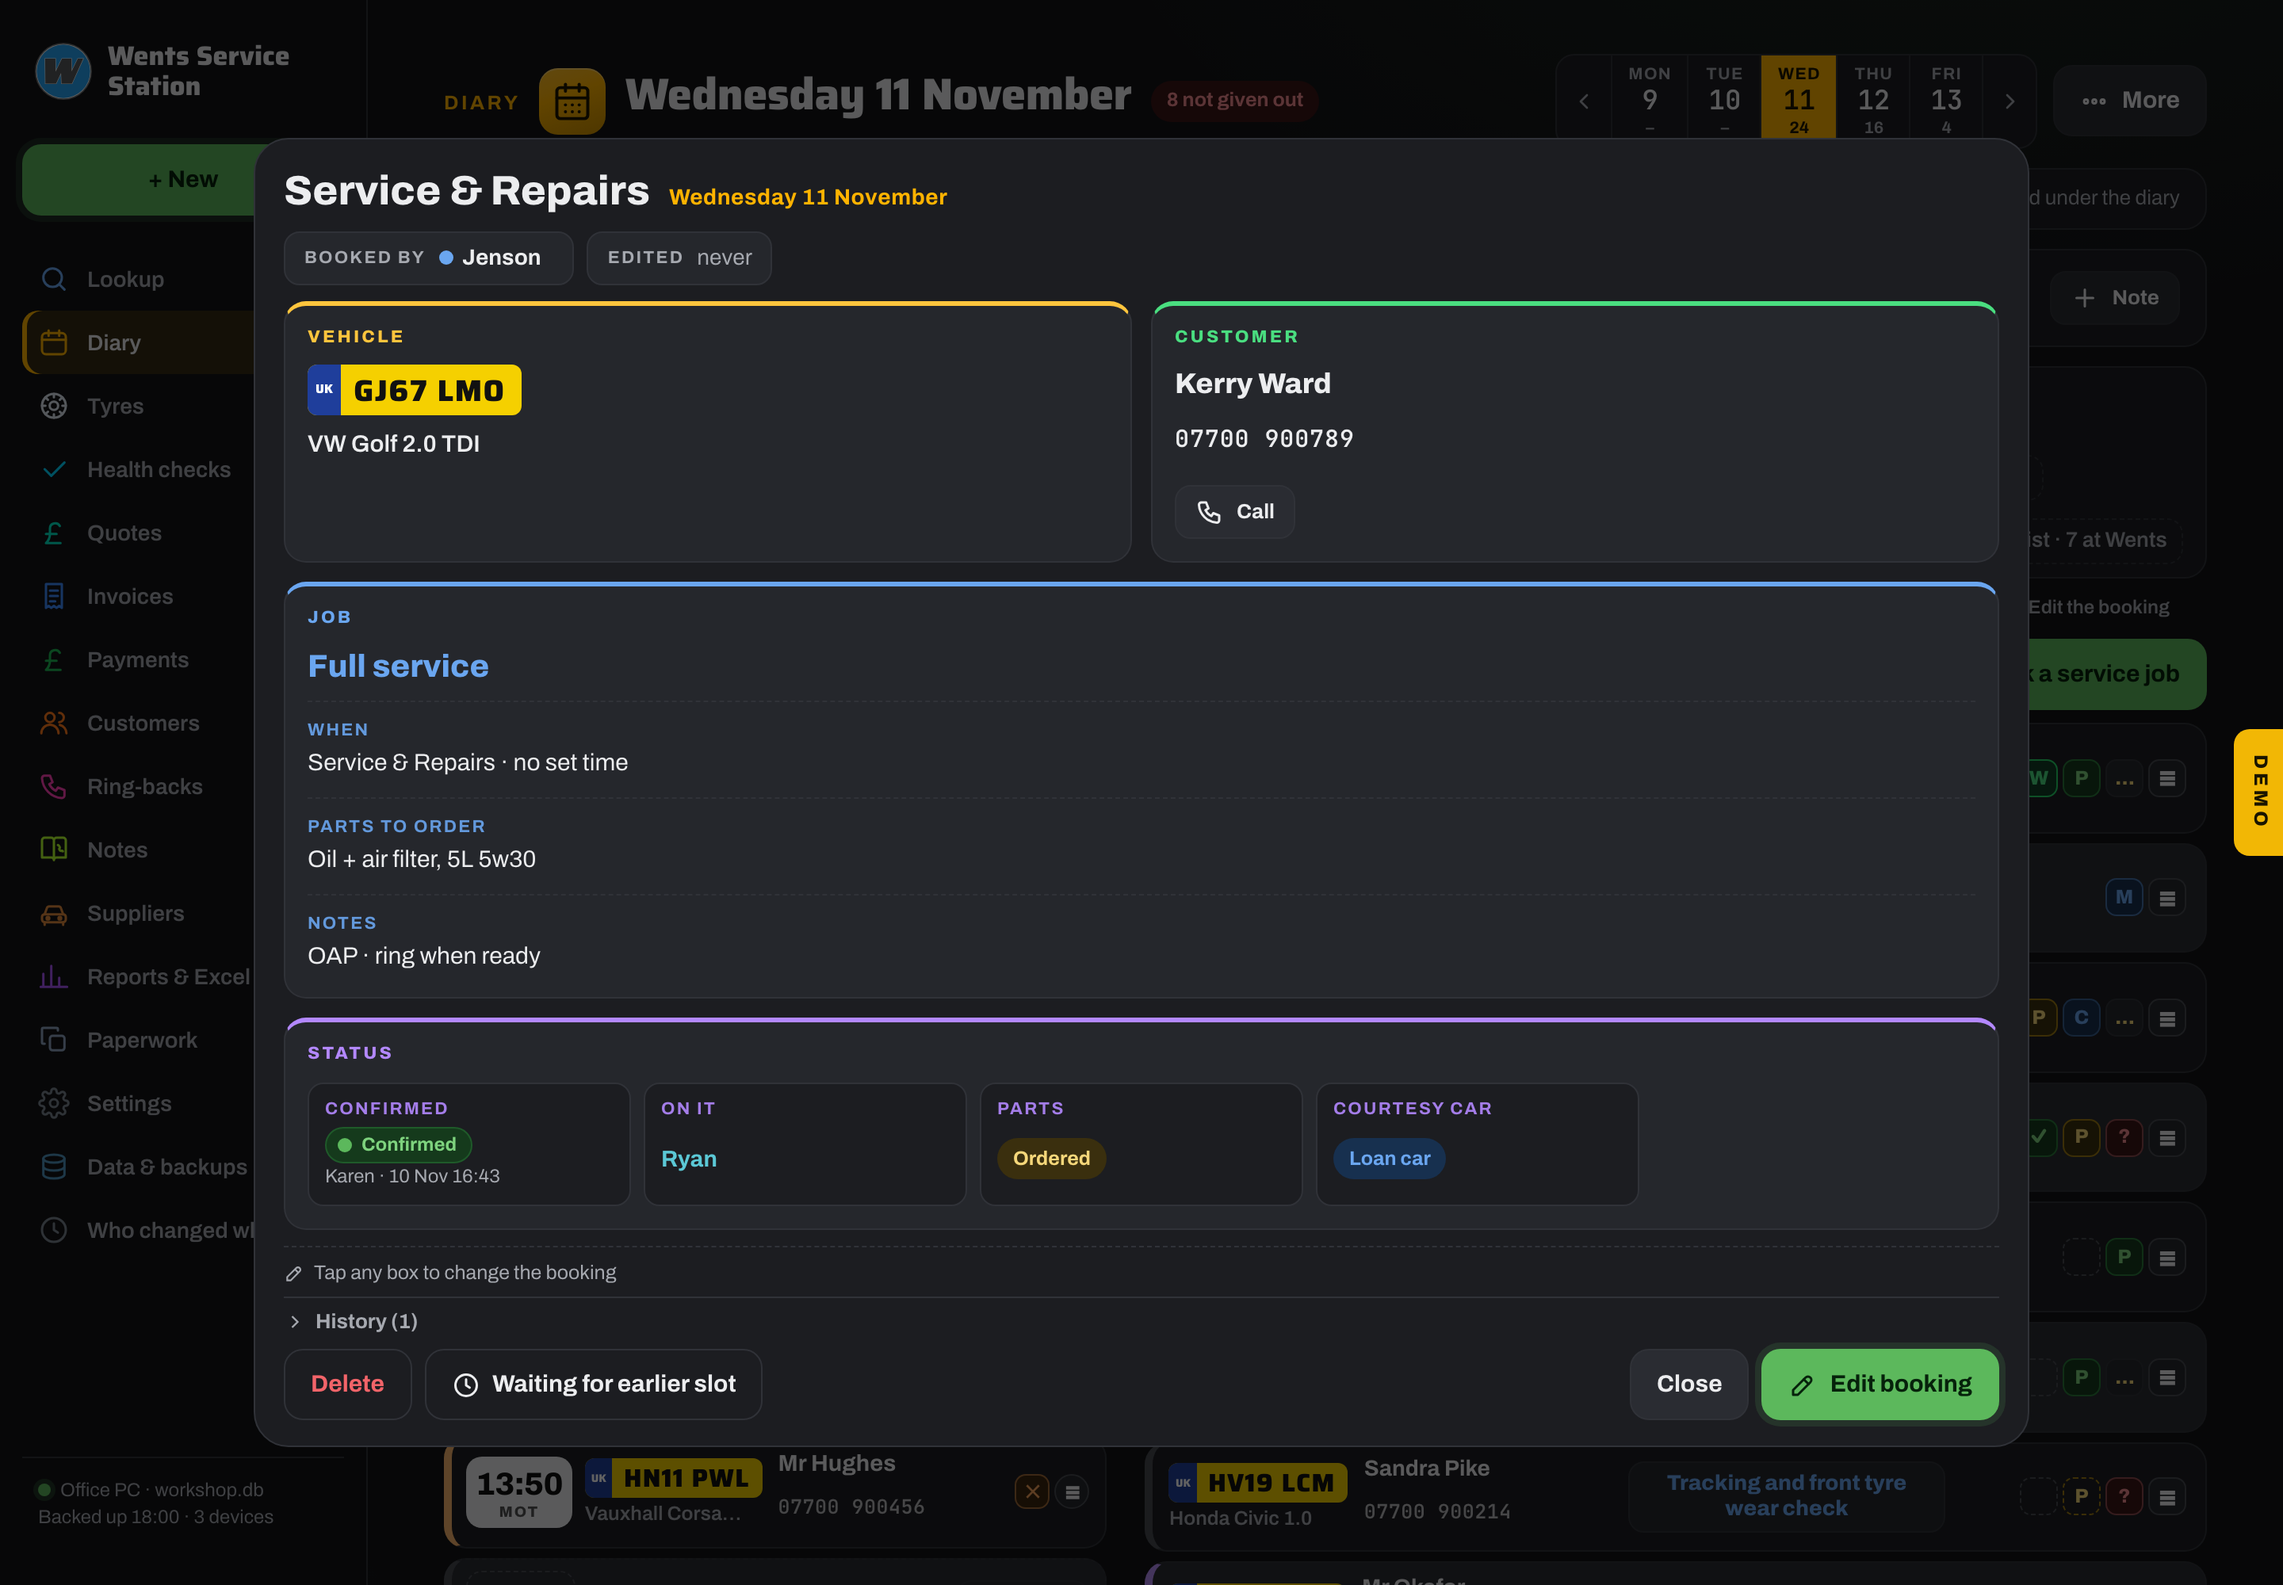
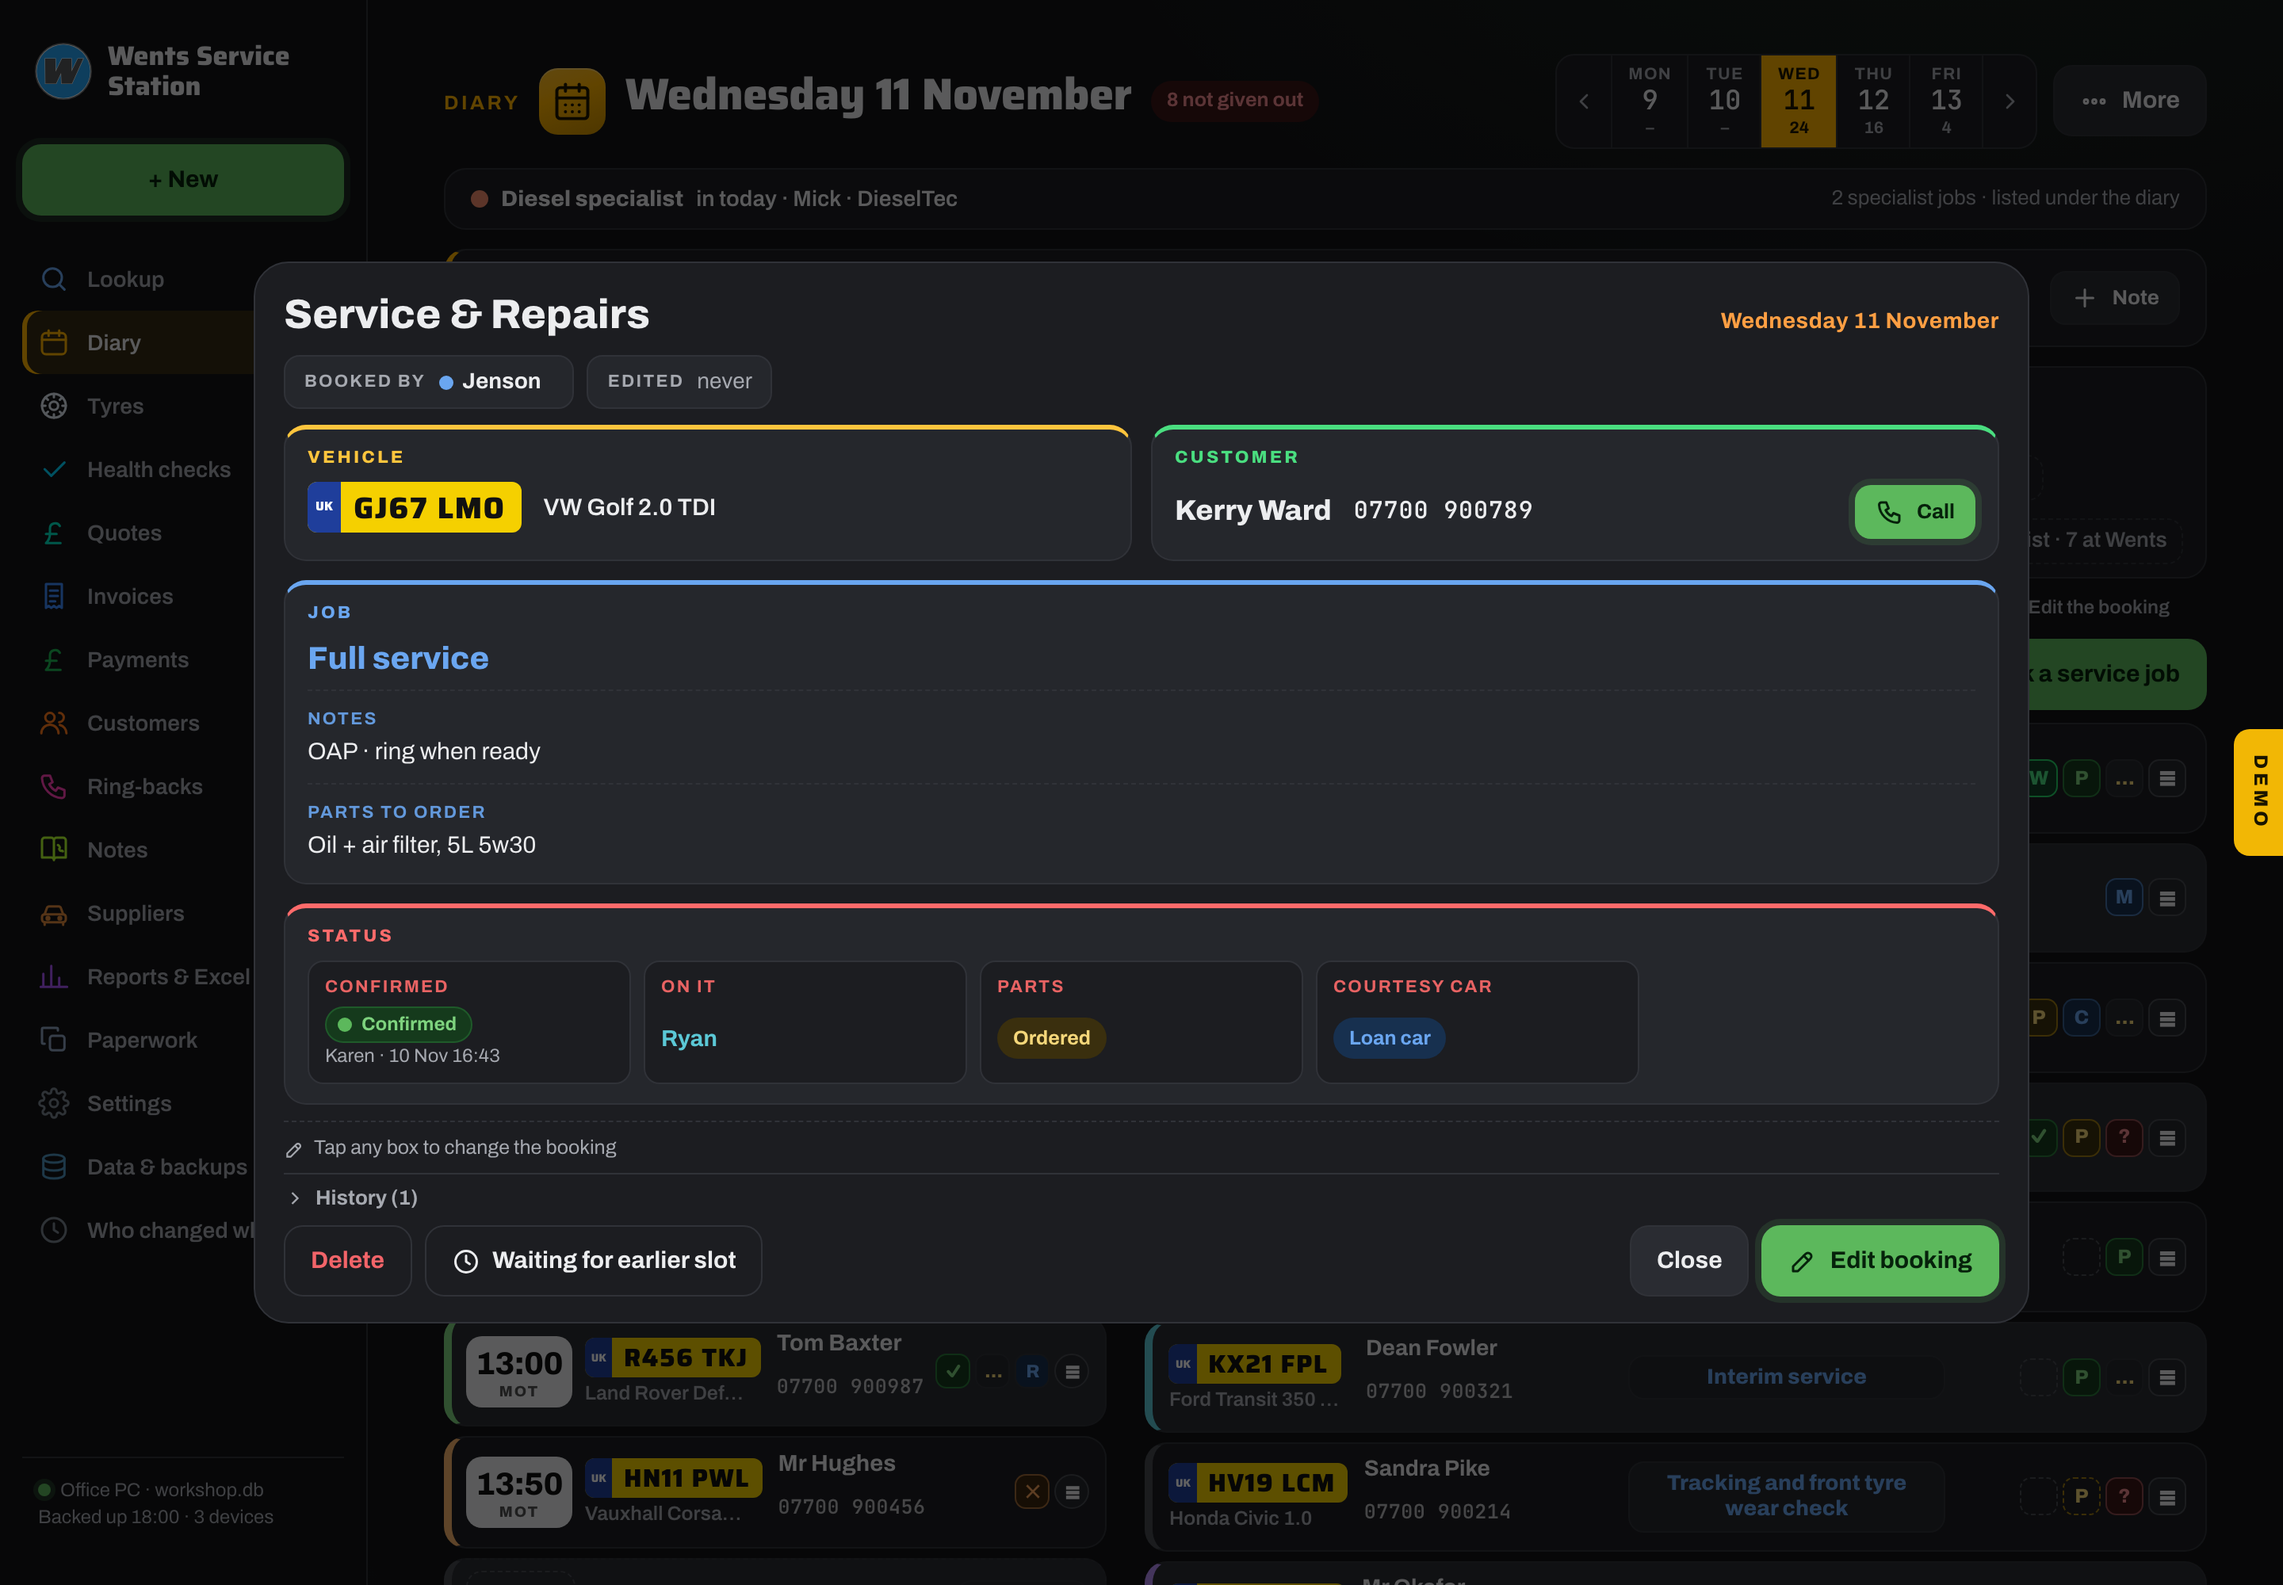
Mock round 27: booking read-only view tidied: date in orange at the far right of the title, Vehicle and Customer boxes one row each with a green Call button, Job box shows the job then Notes then Parts to order (When dropped for service jobs, kept for timed kinds), Status box in red; workshop-v23

diff --git a/mock/index.html b/mock/index.html
@@ -396,7 +396,7 @@ a.stat{display:block} a.stat:hover{border-color:var(--line-strong)}
 .bkview .vtop{display:flex;align-items:center;gap:8px 16px;flex-wrap:wrap} .bkview .vtop .veh{display:grid;gap:3px;justify-items:start} .bkview .vtop .veh small{font-size:14px;font-weight:600;color:var(--muted)} .bkview .vtop .cus{display:grid;gap:2px;flex:1 1 140px;min-width:0} .bkview .vtop .cus b{font-size:17px;font-weight:700} .bkview .vtop .cus .ph{font-family:var(--font-mono);font-weight:600;letter-spacing:.02em;font-size:14px;opacity:.8} .bkview .vtop .btn.sm{align-self:center}
 .bkview .vjob{font-size:19px;font-weight:800;color:var(--accent);line-height:1.2}
 .bkview .vr{display:grid;grid-template-columns:96px 1fr;gap:10px;font-size:14.5px;align-items:start} .bkview .vr>span{font-size:11px;letter-spacing:.1em;text-transform:uppercase;color:var(--muted);font-weight:700;padding-top:3px} .bkview .vr b{font-weight:700} .bkview .vr .pills{display:flex;flex-wrap:wrap;gap:5px} .bkview .vr .cfl{display:inline-flex;align-items:center;gap:6px} .bkview .vr .small{white-space:normal;max-width:none}
-.bkview .vgrid{display:grid;grid-template-columns:1fr 1fr;gap:12px;margin:0 0 10px;cursor:pointer} .bkview .vb{border:1px solid var(--line);border-top:3px solid var(--vc);border-radius:14px;background:var(--sunk);padding:12px 14px 14px;display:grid;gap:10px;align-content:start;min-width:0} .bkview .vgrid:hover .vb{border-color:var(--line-strong);border-top-color:var(--vc)} .bkview .vb.vjb,.bkview .vb.vst{grid-column:1/-1} .bkview .vbh{font-size:11px;letter-spacing:.14em;text-transform:uppercase;font-weight:800;color:var(--vc)} .bkview .vbody{display:grid;gap:4px;justify-items:start} .bkview .vb .vmk{font-size:15px;font-weight:600;color:var(--fg);margin-top:4px} .bkview .vb .vname{font-size:18px;font-weight:800} .bkview .vb .ph{font-family:var(--font-mono);font-size:15px;font-weight:600;letter-spacing:.03em} .bkview .vb .cbtn{margin-top:6px} .bkview .vb .vjob{font-size:20px} .bkview .vb .vr{grid-template-columns:1fr;gap:3px;padding-top:10px;border-top:1px dashed var(--line)} .bkview .vb .vr>span{color:var(--vc);opacity:.9;padding:0} .bkview .vb .vr>div{font-size:15px;line-height:1.45} .bkview .vb.vst .vrows{display:grid;grid-template-columns:repeat(auto-fill,minmax(170px,1fr));gap:8px} .bkview .vb.vst .vr{border:1px solid var(--line);border-radius:10px;background:var(--surface);padding:8px 10px;gap:4px} .bkview .vb.vst .vr .small{display:block;font-size:12px} .bkview .vb.vst .vr>div{font-size:14.5px}
+.bkview .vgrid{display:grid;grid-template-columns:1fr 1fr;gap:12px;margin:0 0 10px;cursor:pointer} .bkview .vb{border:1px solid var(--line);border-top:3px solid var(--vc);border-radius:14px;background:var(--sunk);padding:10px 14px 12px;display:grid;gap:8px;align-content:start;min-width:0} .bkview h2 .bkday{margin-left:auto;color:#FF9F43} .bkview .vbody.vrow{display:flex;align-items:center;gap:8px 14px;flex-wrap:wrap} .bkview .vb .vrow .vmk{margin-top:0} .bkview .vb .vrow .cbtn{margin:0 0 0 auto} .bkview .vgrid:hover .vb{border-color:var(--line-strong);border-top-color:var(--vc)} .bkview .vb.vjb,.bkview .vb.vst{grid-column:1/-1} .bkview .vbh{font-size:11px;letter-spacing:.14em;text-transform:uppercase;font-weight:800;color:var(--vc)} .bkview .vbody{display:grid;gap:4px;justify-items:start} .bkview .vb .vmk{font-size:15px;font-weight:600;color:var(--fg);margin-top:4px} .bkview .vb .vname{font-size:18px;font-weight:800} .bkview .vb .ph{font-family:var(--font-mono);font-size:15px;font-weight:600;letter-spacing:.03em} .bkview .vb .cbtn{margin-top:6px} .bkview .vb .vjob{font-size:20px} .bkview .vb .vr{grid-template-columns:1fr;gap:3px;padding-top:10px;border-top:1px dashed var(--line)} .bkview .vb .vr>span{color:var(--vc);opacity:.9;padding:0} .bkview .vb .vr>div{font-size:15px;line-height:1.45} .bkview .vb.vst .vrows{display:grid;grid-template-columns:repeat(auto-fill,minmax(170px,1fr));gap:8px} .bkview .vb.vst .vr{border:1px solid var(--line);border-radius:10px;background:var(--surface);padding:8px 10px;gap:4px} .bkview .vb.vst .vr .small{display:block;font-size:12px} .bkview .vb.vst .vr>div{font-size:14.5px}
 .bkview .vhint{display:flex;align-items:center;gap:6px;color:var(--muted);font-size:12.5px;border-top:1px dashed var(--line);padding-top:8px;margin-top:2px} .bkview .vhint svg{width:13px;height:13px;stroke:currentColor;fill:none;stroke-width:2}
 .dvjob .xt{font-family:var(--font-mono);font-size:13px;color:var(--muted);font-weight:600} .dvjob .xt b{color:var(--fg);font-style:italic}
 .dvjob.add,.dvlist .dvjob.add:nth-child(even){grid-template-columns:1fr;justify-items:center;border:1px dashed var(--line-strong);padding:10px 16px;background:transparent} .dvjob.add span{display:inline-flex;align-items:center;gap:6px;font-weight:600;font-size:13.5px} .dvjob.add svg{width:14px;height:14px;stroke:currentColor;fill:none;stroke-width:2}
@@ -1702,10 +1702,10 @@ const bkView=(b,i,d0,sps)=>{const KV={mot:'MOT',svc:'Service &amp; Repairs',xtra
  return `<div class="modal" onclick="if(event.target===this)closeBk()"><div class="box bkbox sec-diary bkview"><h2>${KV[b.k]||'Booking'}<span class="bkday">${fmt(d0,{weekday:'long',day:'numeric',month:'long'})}</span></h2>
  ${byHead('booking',b.id,'Booked by',{by:b.by,byAt:b.byAt,edBy:b.edBy,edAt:b.edAt,})}
  <div class="vgrid" onclick="bkEdit()" title="Tap to edit the booking">
-  <div class="vb vveh" style="--vc:#FFC53D"><div class="vbh">Vehicle</div><div class="vbody">${plate(b.reg)}<div class="vmk">${esc(i.make)||'<span class="muted">Make not set</span>'}</div></div></div>
-  <div class="vb vcus" style="--vc:#4ADE80"><div class="vbh">Customer</div><div class="vbody"><b class="vname">${esc(i.name)||'<span class="muted">Name not set</span>'}</b>${i.ph?`<span class="ph">${esc(i.ph)}</span><a class="btn sm cbtn" href="tel:${esc(i.ph)}" onclick="event.stopPropagation()">${I.phone}Call</a>`:'<span class="muted">no number</span>'}</div></div>
-  <div class="vb vjb" style="--vc:var(--accent)"><div class="vbh">Job</div>${b.job?`<div class="vjob">${b.job}</div>`:'<div class="vjob muted">No job written down</div>'}${row('When',when)}${row('Parts to order',b.partsNote?esc(b.partsNote):'')}${row('Notes',b.nt?b.nt:'')}</div>
-  <div class="vb vst" style="--vc:#B388FF"><div class="vbh">Status</div><div class="vrows">
+  <div class="vb vveh" style="--vc:#FFC53D"><div class="vbh">Vehicle</div><div class="vbody vrow">${plate(b.reg)}<div class="vmk">${esc(i.make)||'<span class="muted">Make not set</span>'}</div></div></div>
+  <div class="vb vcus" style="--vc:#4ADE80"><div class="vbh">Customer</div><div class="vbody vrow"><b class="vname">${esc(i.name)||'<span class="muted">Name not set</span>'}</b>${i.ph?`<span class="ph">${esc(i.ph)}</span><a class="btn sm pri cbtn" href="tel:${esc(i.ph)}" onclick="event.stopPropagation()">${I.phone}Call</a>`:'<span class="muted">no number</span>'}</div></div>
+  <div class="vb vjb" style="--vc:var(--accent)"><div class="vbh">Job</div>${b.job?`<div class="vjob">${b.job}</div>`:'<div class="vjob muted">No job written down</div>'}${b.k==='svc'?'':row('When',when)}${row('Notes',b.nt?b.nt:'')}${row('Parts to order',b.partsNote?esc(b.partsNote):'')}</div>
+  <div class="vb vst" style="--vc:#FF6B6B"><div class="vbh">Status</div><div class="vrows">
    ${row('Confirmed',`<span class="cfl">${cfDot(b)}</span>${b.cf&&b.cf.who?`<span class="muted small">${WHO[b.cf.who]?WHO[b.cf.who].n:b.cf.who} · ${b.cf.at}</span>`:''}`)}
    ${row('On it',b.who&&WHO[b.who]?`<b style="color:${WHO[b.who].c}">${WHO[b.who].n}</b>`:sp?`<b style="color:${sp.c}">${esc(sp.who)}</b>`:'<span class="red">Not given out</span>')}
    ${row('Parts',b.parts&&PARTS[b.parts]?`<span class="pill ${PARTS[b.parts][1]}">${PARTS[b.parts][0]}</span>`:b.partsNote?'<span class="pill y">To order</span>':'')}

diff --git a/mock/sw.js b/mock/sw.js
@@ -1,6 +1,6 @@
 // Workshop (Garage System mock) offline support: keeps a copy of the app so it opens with no signal.
 // Bump VERSION whenever index.html, makes.js, logos or icons change, so installed copies pick up the update.
-const VERSION = 'workshop-v22';
+const VERSION = 'workshop-v23';
 const CORE = [
   './',
   'index.html',
